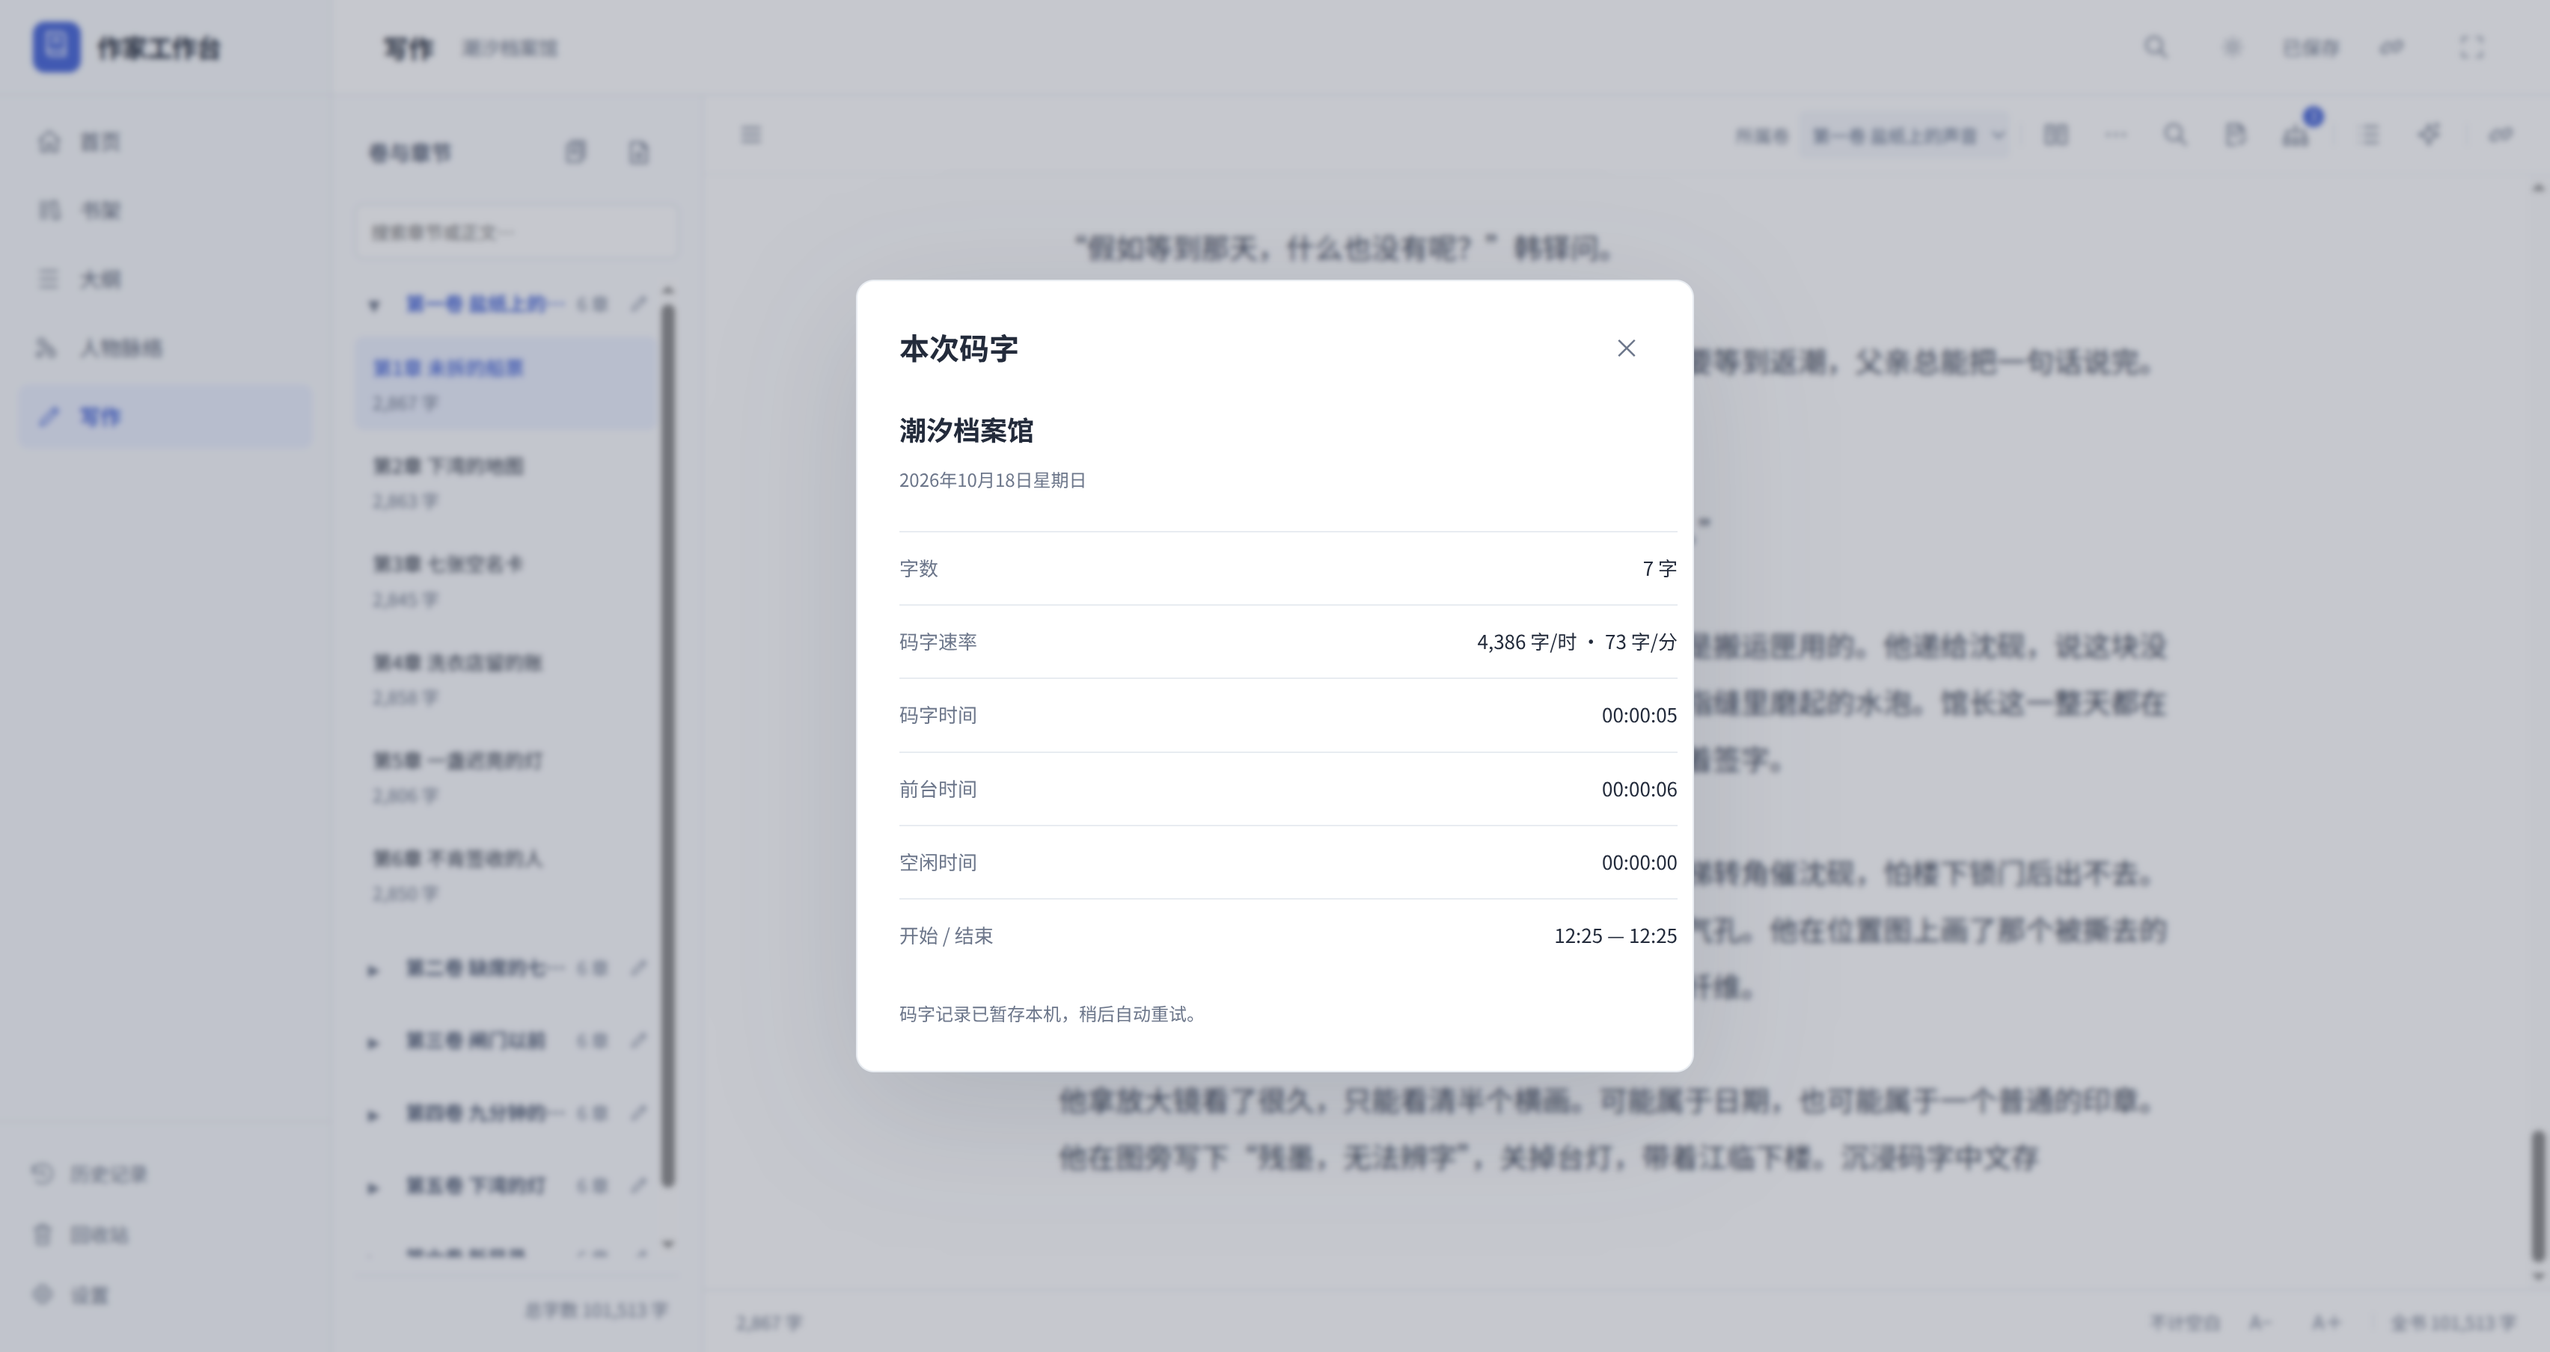
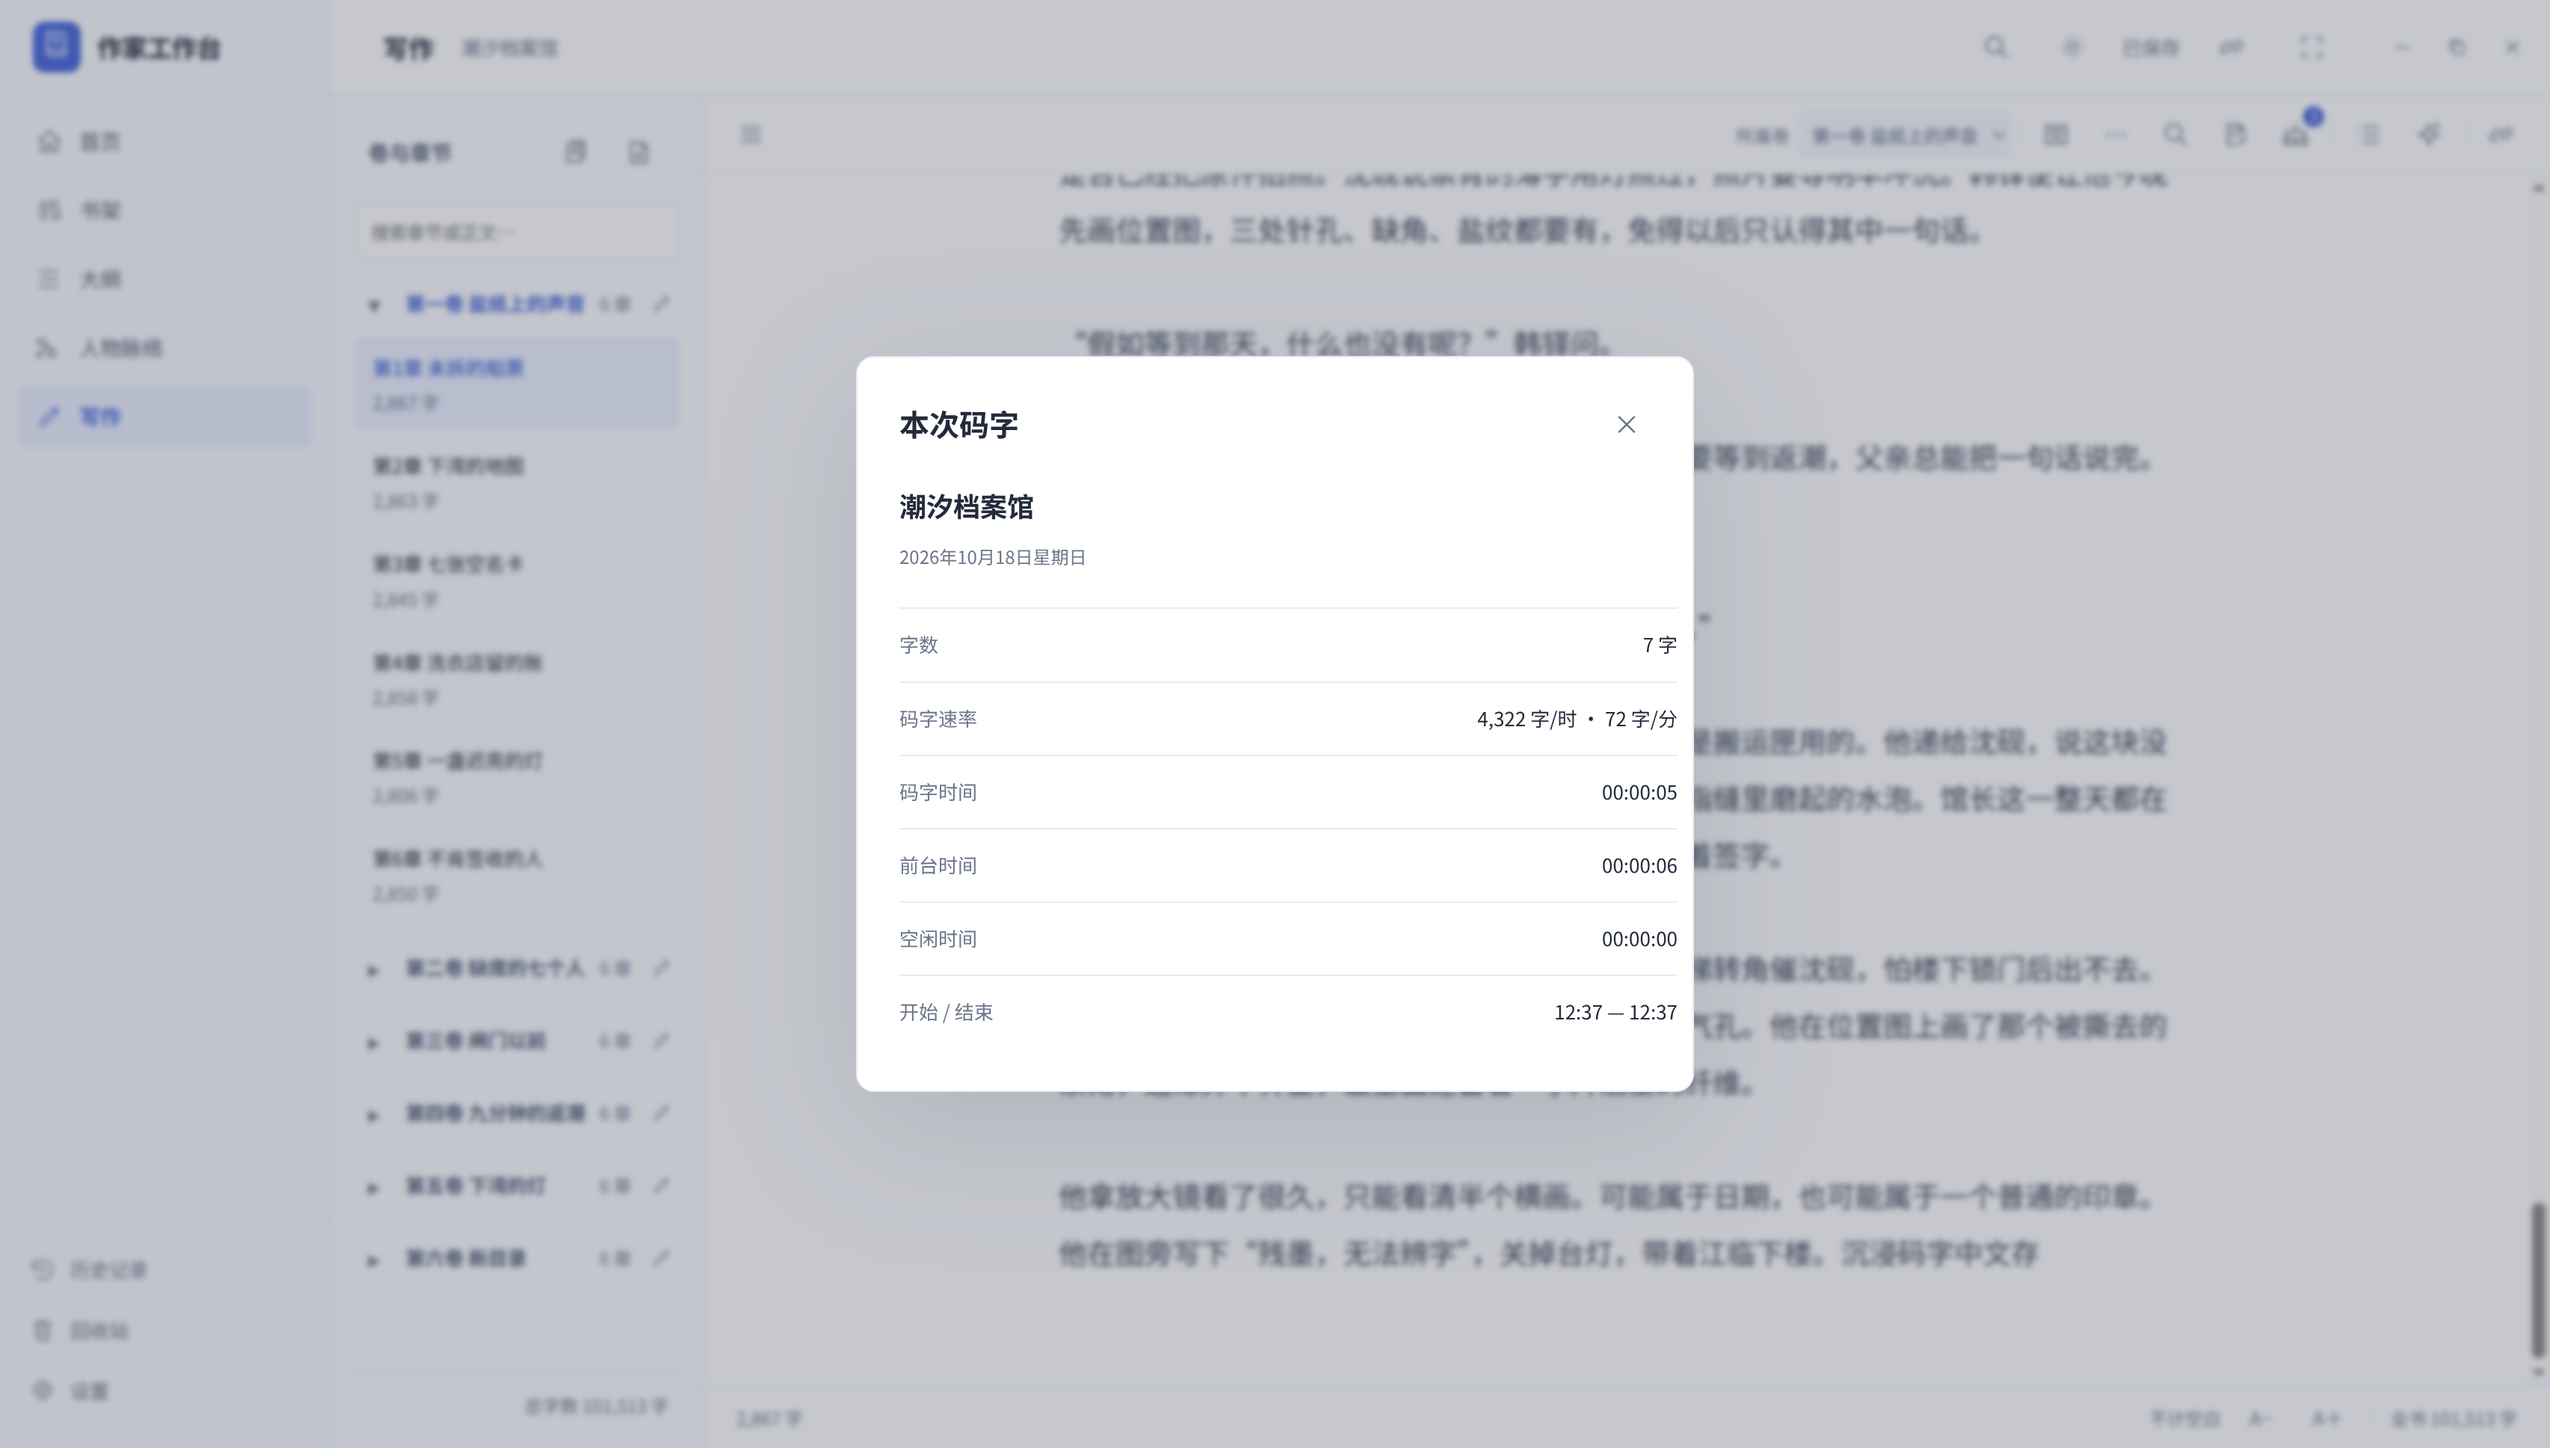
Verify real desktop fullscreen and durable storage across platforms

diff --git a/tests/verify_writing_sessions.py b/tests/verify_writing_sessions.py
@@ -1,5 +1,6 @@
 """Immersive counters and authenticated HTTP journeys use isolated libraries."""
 import argparse
+from contextlib import closing
 from datetime import datetime, timedelta, timezone
 from pathlib import Path
 import sqlite3
@@ -226,7 +227,9 @@ class SessionHTTPTests(unittest.TestCase):
         trashed = self.request("/api/books/" + first["id"] + "/trash", "POST", {"revision": restored["revision"]})
         self.request("/api/books/" + first["id"] + "/purge", "POST", {"revision": trashed["revision"]})
         self.assertEqual(self.request("/api/writing-sessions")["sessions"], [expected])
-        with sqlite3.connect(str(self.data / "writer.sqlite3")) as conn:
+        # SQLite's transaction context does not close its file handles. Close
+        # this inspection connection before Windows removes the test library.
+        with closing(sqlite3.connect(str(self.data / "writer.sqlite3"))) as conn:
             self.assertEqual(conn.execute("SELECT COUNT(*) FROM writing_sessions WHERE book_id=?", (first["id"],)).fetchone()[0], 0)
             self.assertEqual(conn.execute("SELECT COUNT(*) FROM writing_sessions WHERE book_id=?", (other["id"],)).fetchone()[0], 1)
 

diff --git a/CHANGELOG.md b/CHANGELOG.md
@@ -9,6 +9,7 @@
 - 退出前保存正文，随后显示字数、时速 / 分速、输入、前台及空闲时长、开始与结束时间。首页显示今日汇总与最近记录，可展开查看。
 - 码字记录独立保存，重复提交不会重复累计；网络或本机服务暂时不可用时保留待提交记录，恢复后重试。回收作品暂不计入首页，彻底删除时清理记录。
 - 全屏退出恢复原窗口状态，支持 Esc 与退出图标；保存失败保留编辑器和退出入口。
+- 修正 Windows 全屏事件与状态更新的时序，以及桌面同步存储提前返回错误的问题；语言、主题和待提交计数正常读写并保留。
 
 检查与发行状态见 [0.8.8 验收](docs/acceptance-0.8.8.md)。
 
